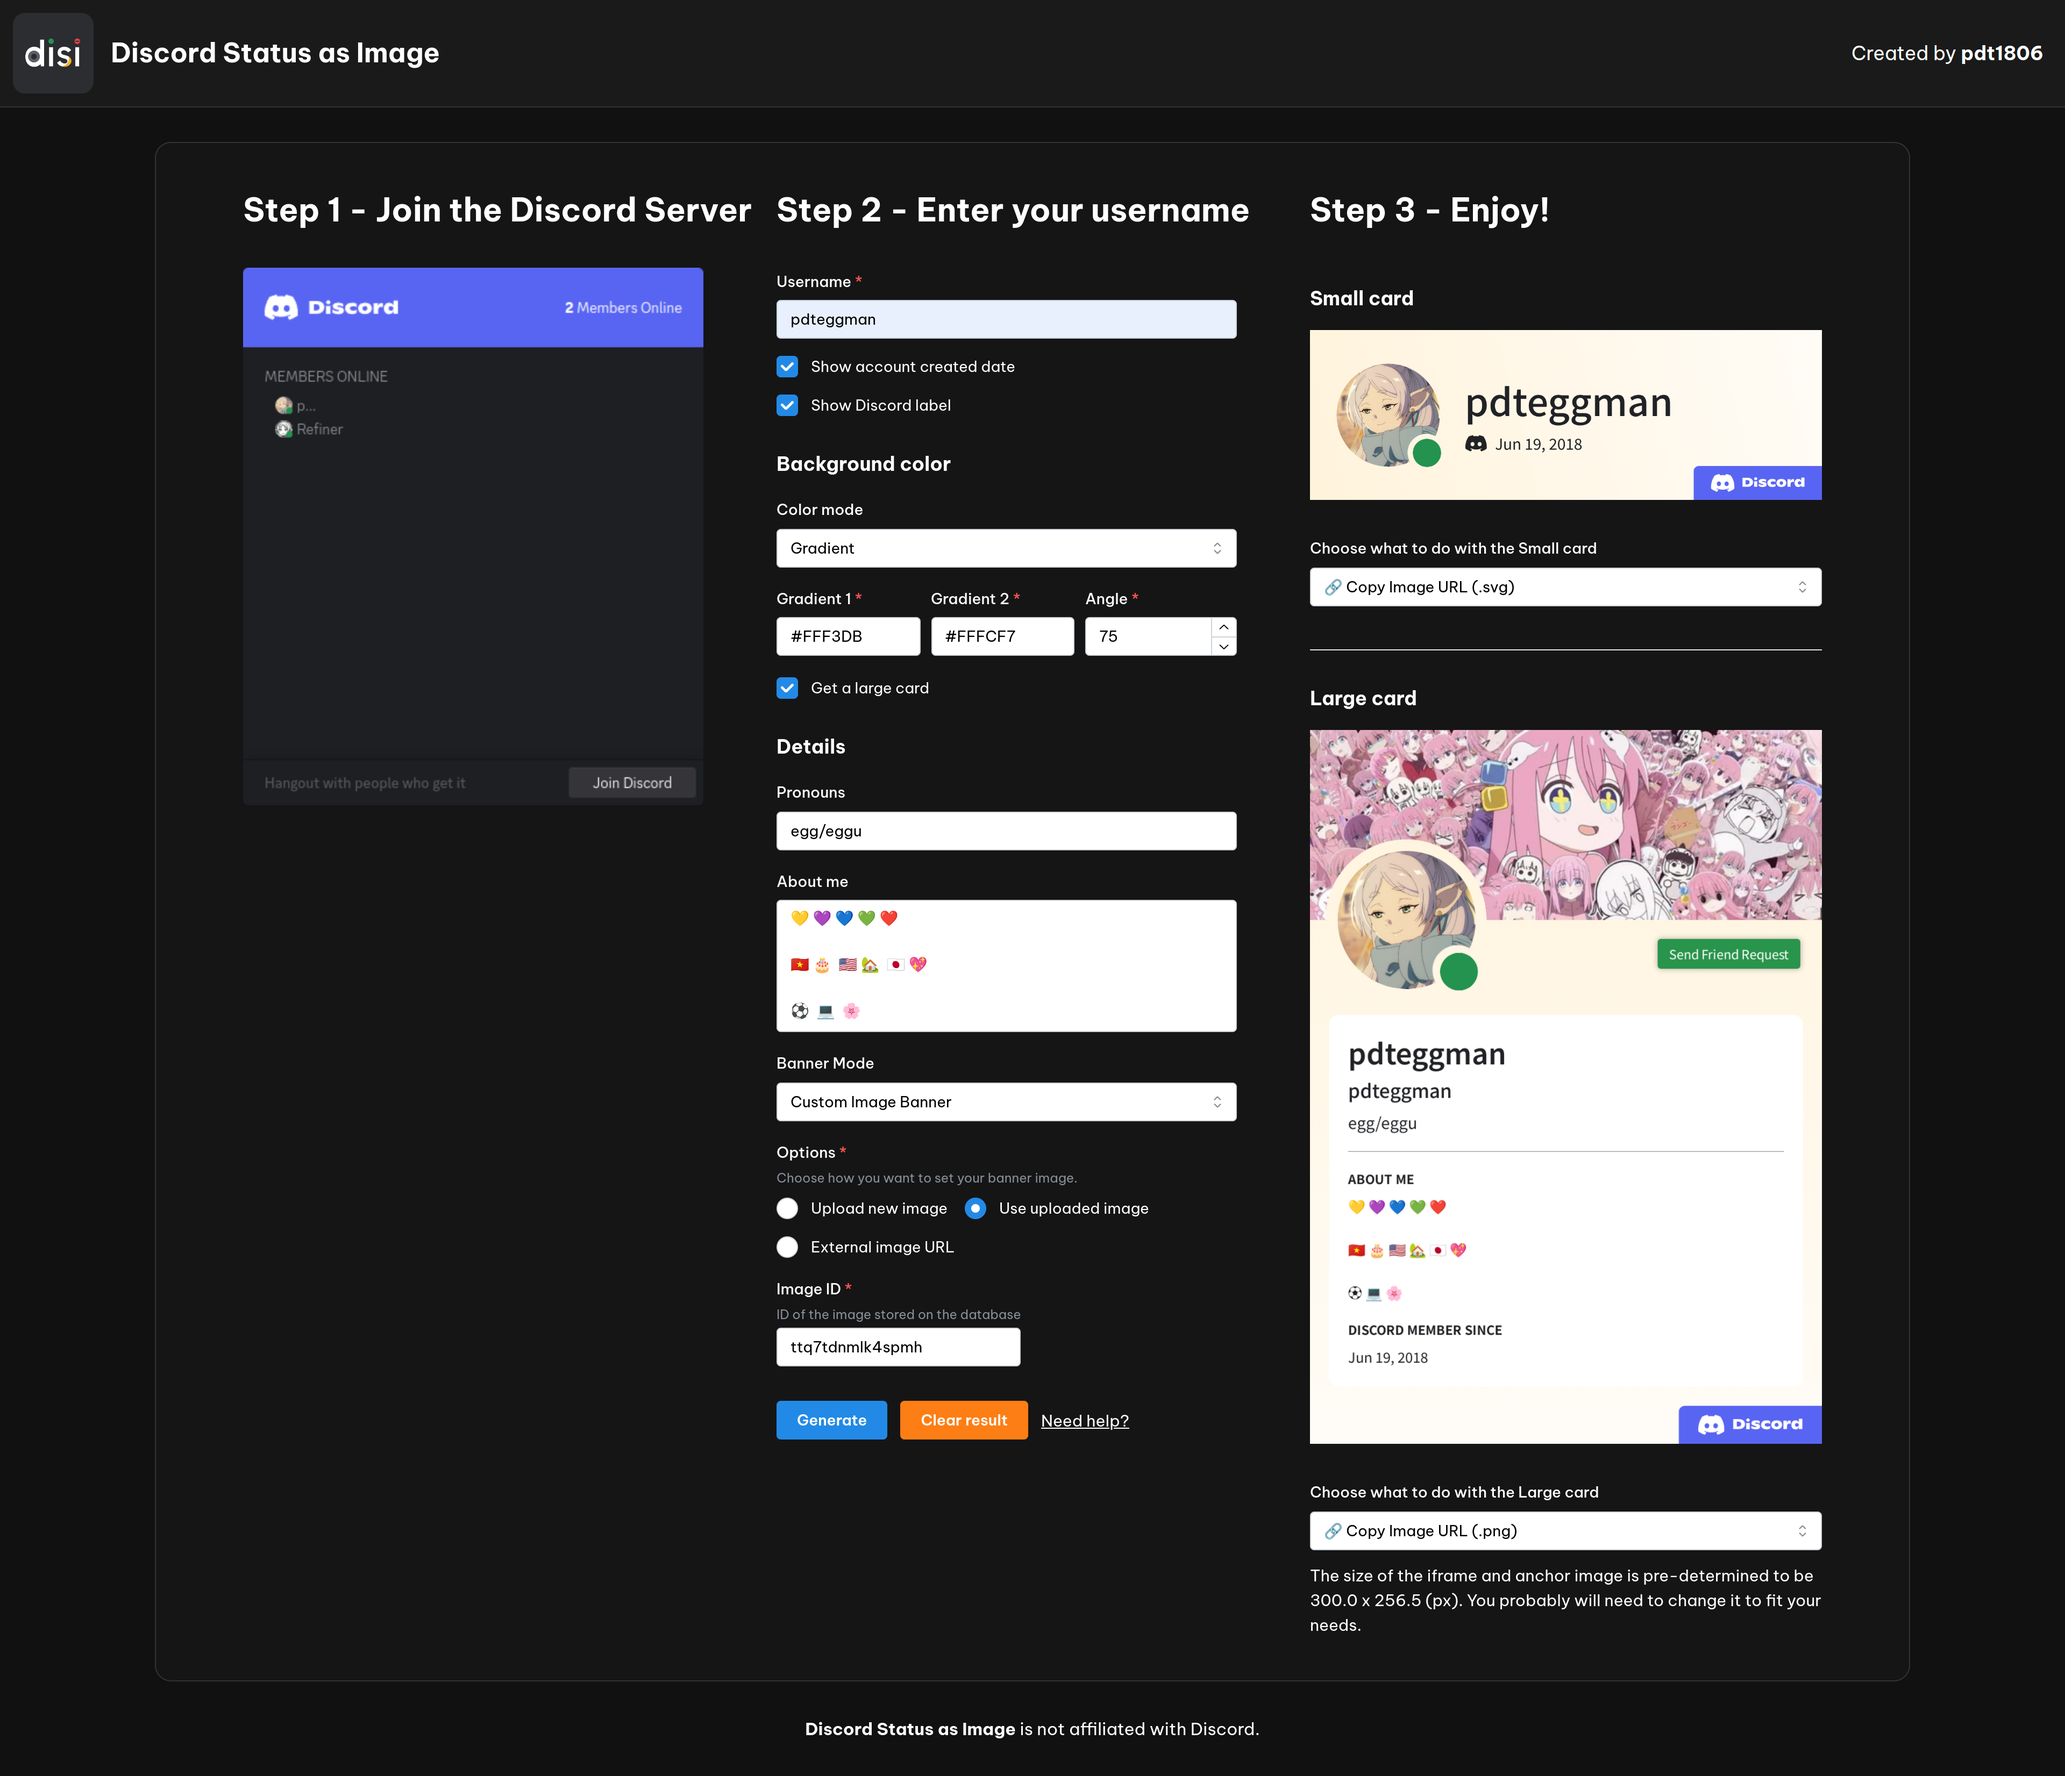
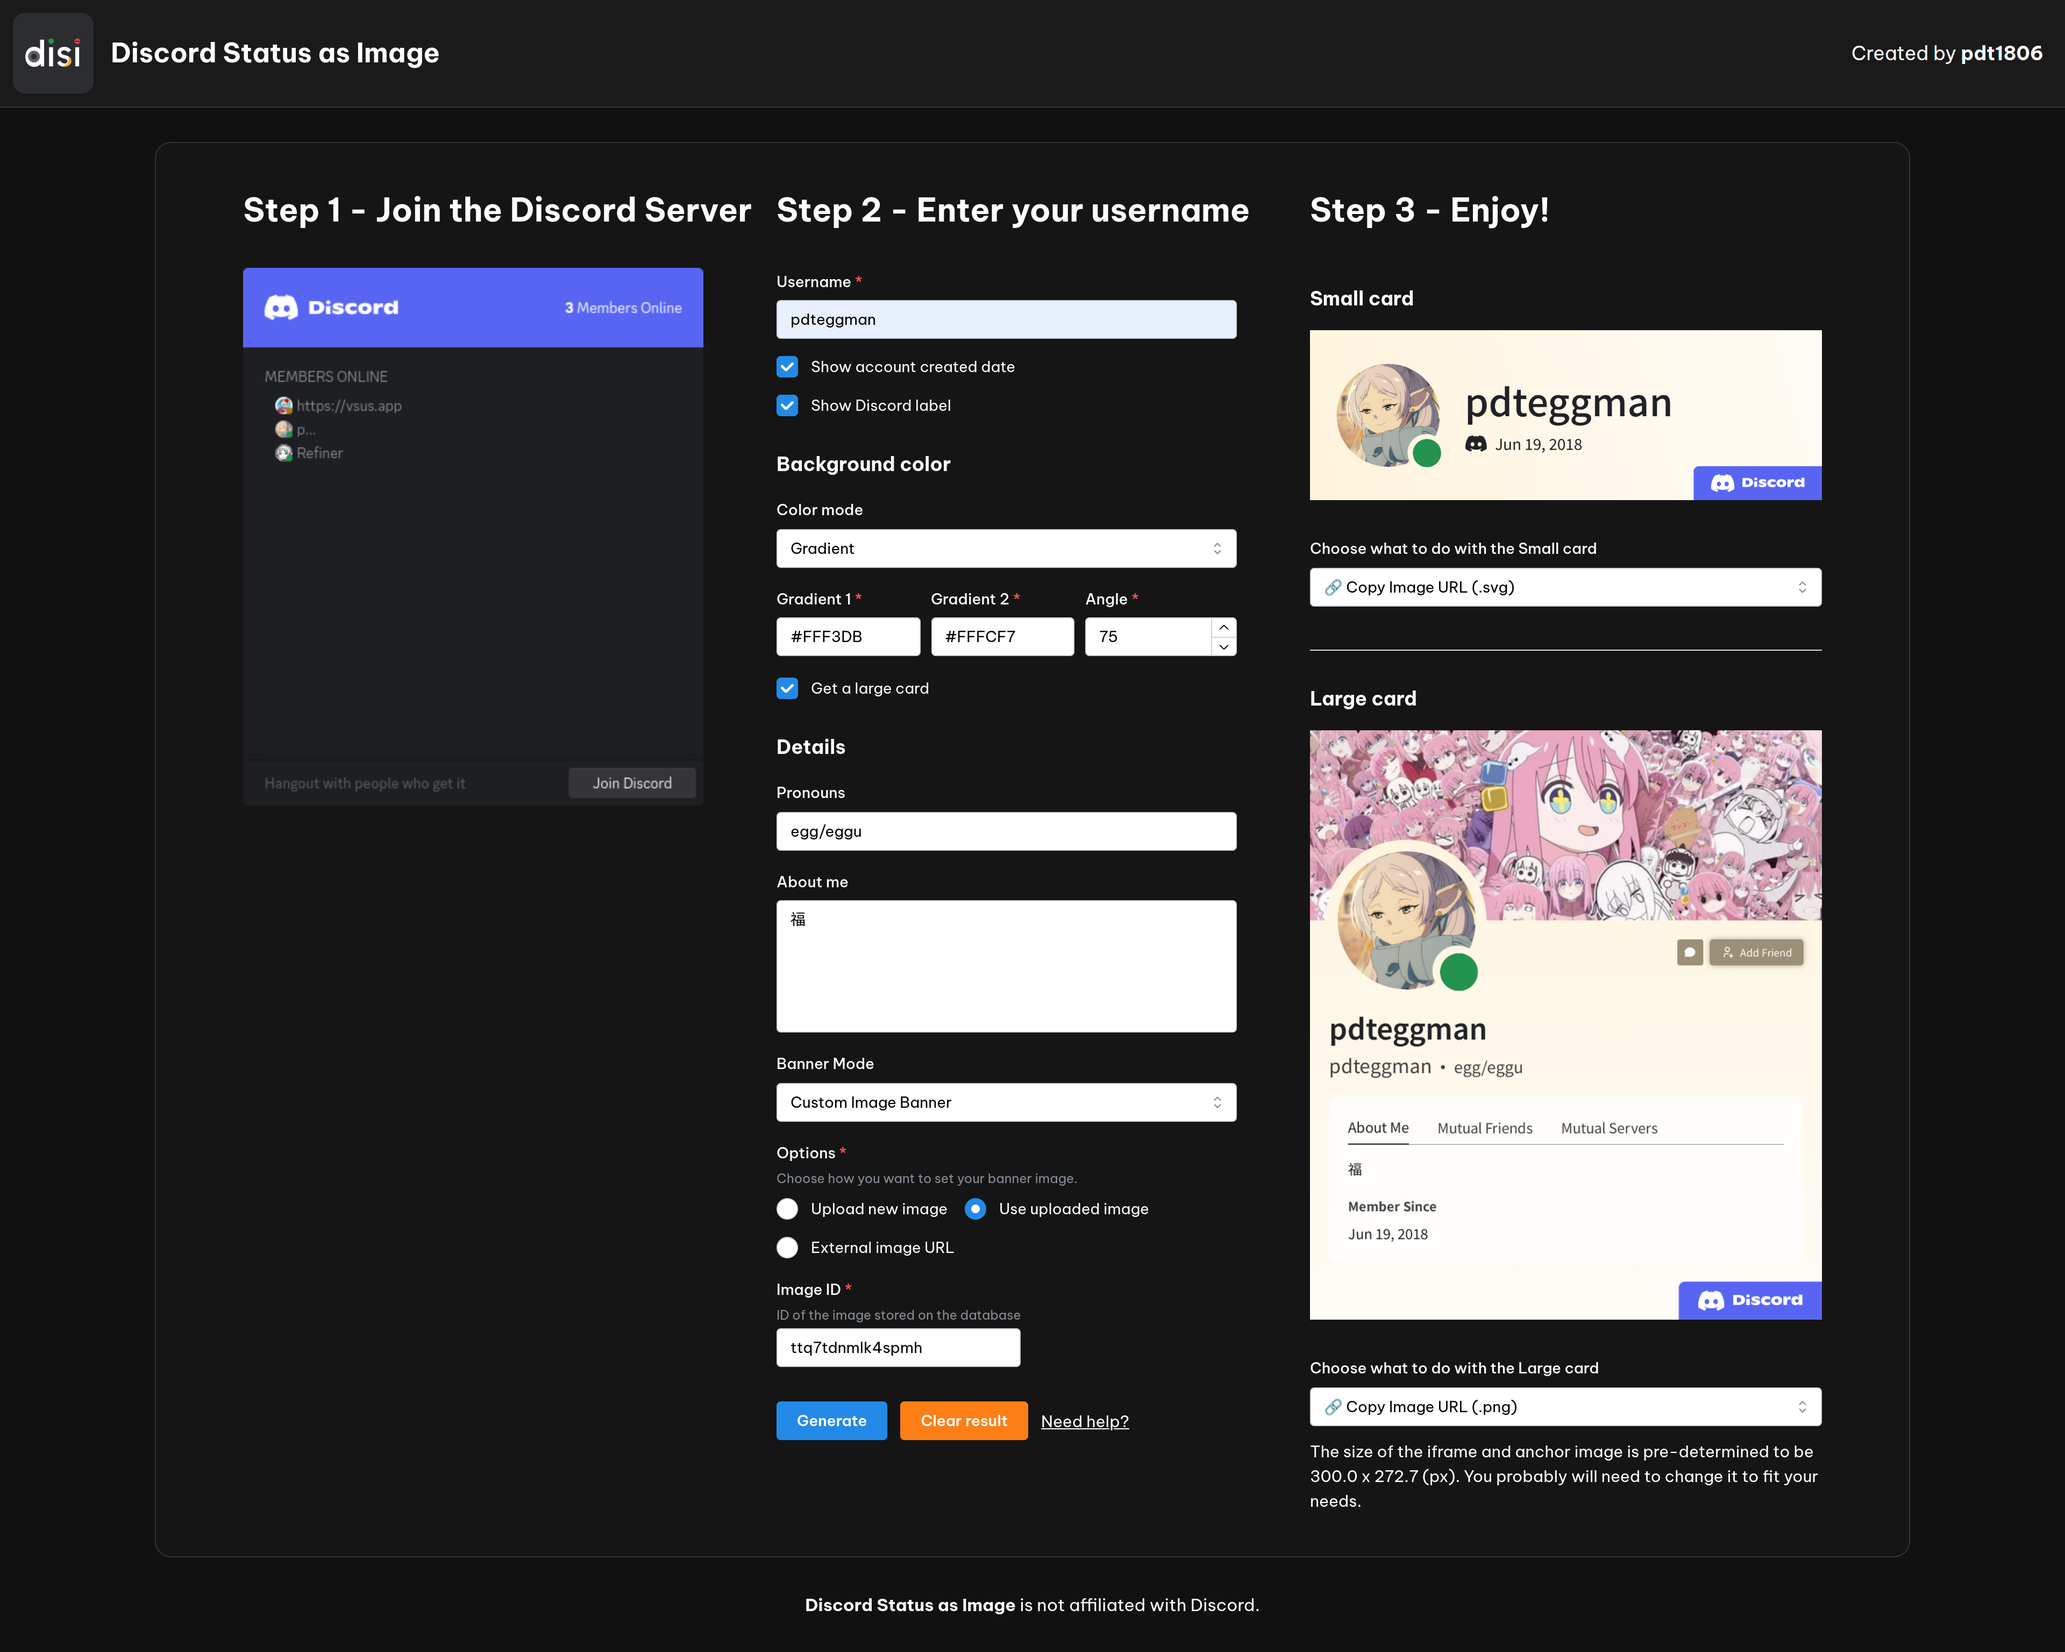
docs: :memo: update preview image & demo cards & default size

diff --git a/src/components/MainContent/Column3/index.tsx b/src/components/MainContent/Column3/index.tsx
@@ -139,7 +139,7 @@ const MainContentColumn3 = ({
       value: '🔗 Copy Anchor (.png)',
       execute: () => {
         navigator.clipboard.writeText(
-          `<a href="https://discord.com/users/${userID}" target="_blank"><img width="300px" height="256.5px" src="${largeCardLink}"></img></a>`
+          `<a href="https://discord.com/users/${userID}" target="_blank"><img width="300px" height="272.7px" src="${largeCardLink}"></img></a>`
         );
         copiedNotification();
       },
@@ -148,7 +148,7 @@ const MainContentColumn3 = ({
       value: '🔗 Copy iframe (live card)',
       execute: () => {
         navigator.clipboard.writeText(
-          `<iframe src="${testing ? web.dev : web.prod}/largecard?id=${userID}?${largeTail}" name="disi-large-card" height="256.5px" width="300px"></iframe>`
+          `<iframe src="${testing ? web.dev : web.prod}/largecard?id=${userID}?${largeTail}" name="disi-large-card" height="272.7px" width="300px"></iframe>`
         );
         copiedNotification();
       },
@@ -270,7 +270,7 @@ const MainContentColumn3 = ({
                 </Combobox.Dropdown>
               </Combobox>
               <Text mt="sm" style={{ fontSize: '15px' }}>
-                The size of the iframe and anchor image is pre-determined to be 300.0 x 256.5 (px).
+                The size of the iframe and anchor image is pre-determined to be 300.0 x 272.7 (px).
                 You probably will need to change it to fit your needs.
               </Text>
             </Box>
